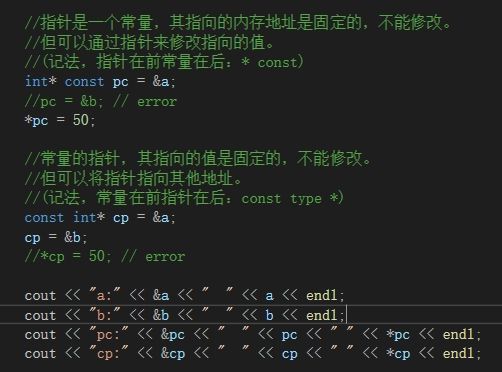
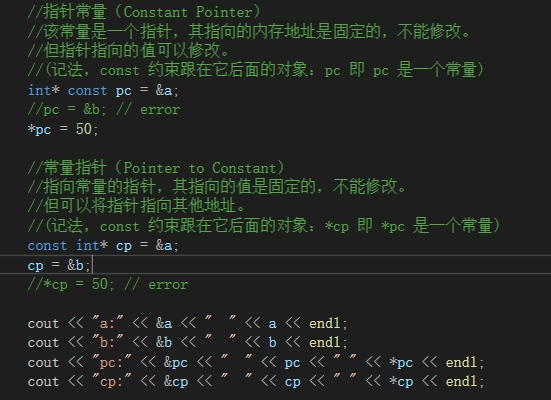
Constant Pointer vs. Pointer to Constant

diff --git a/Example/src/example/e4_const_pointer.cpp b/Example/src/example/e4_const_pointer.cpp
@@ -13,16 +13,18 @@ bool E4_const_pointer::doExample()
 	int a = 5;
 	int b = 6;
 
-	//指针是一个常量，其指向的内存地址是固定的，不能修改。
-	//但可以通过指针来修改指向的值。 
-	//(记法，指针在前常量在后：* const)
+	//指针常量（Constant Pointer）
+	//该常量是一个指针，其指向的内存地址是固定的，不能修改。
+	//但指针指向的值可以修改。 
+	//(记法，const 约束跟在它后面的对象：pc 即 pc 是一个常量)
 	int* const pc = &a;
 	//pc = &b; // error
 	*pc = 50;
 
-	//常量的指针，其指向的值是固定的，不能修改。
+	//常量指针（Pointer to Constant）
+	//指向常量的指针，其指向的值是固定的，不能修改。
 	//但可以将指针指向其他地址。
-	//(记法，常量在前指针在后：const type *)
+	//(记法，const 约束跟在它后面的对象：*cp 即 *pc 是一个常量)
 	const int* cp = &a;
 	cp = &b;
 	//*cp = 50; // error

diff --git a/Example/src/example/e1_reference.cpp b/Example/src/example/e1_reference.cpp
@@ -12,6 +12,7 @@ bool E1_ref::doExample()
 {
 	int a = 100;
 	int& b = a;
+	int* b_p = &a;
 	const int& c = b;
 	printf("a %d  b %d  c %d \n", a, b, c);
 	a = 200;
